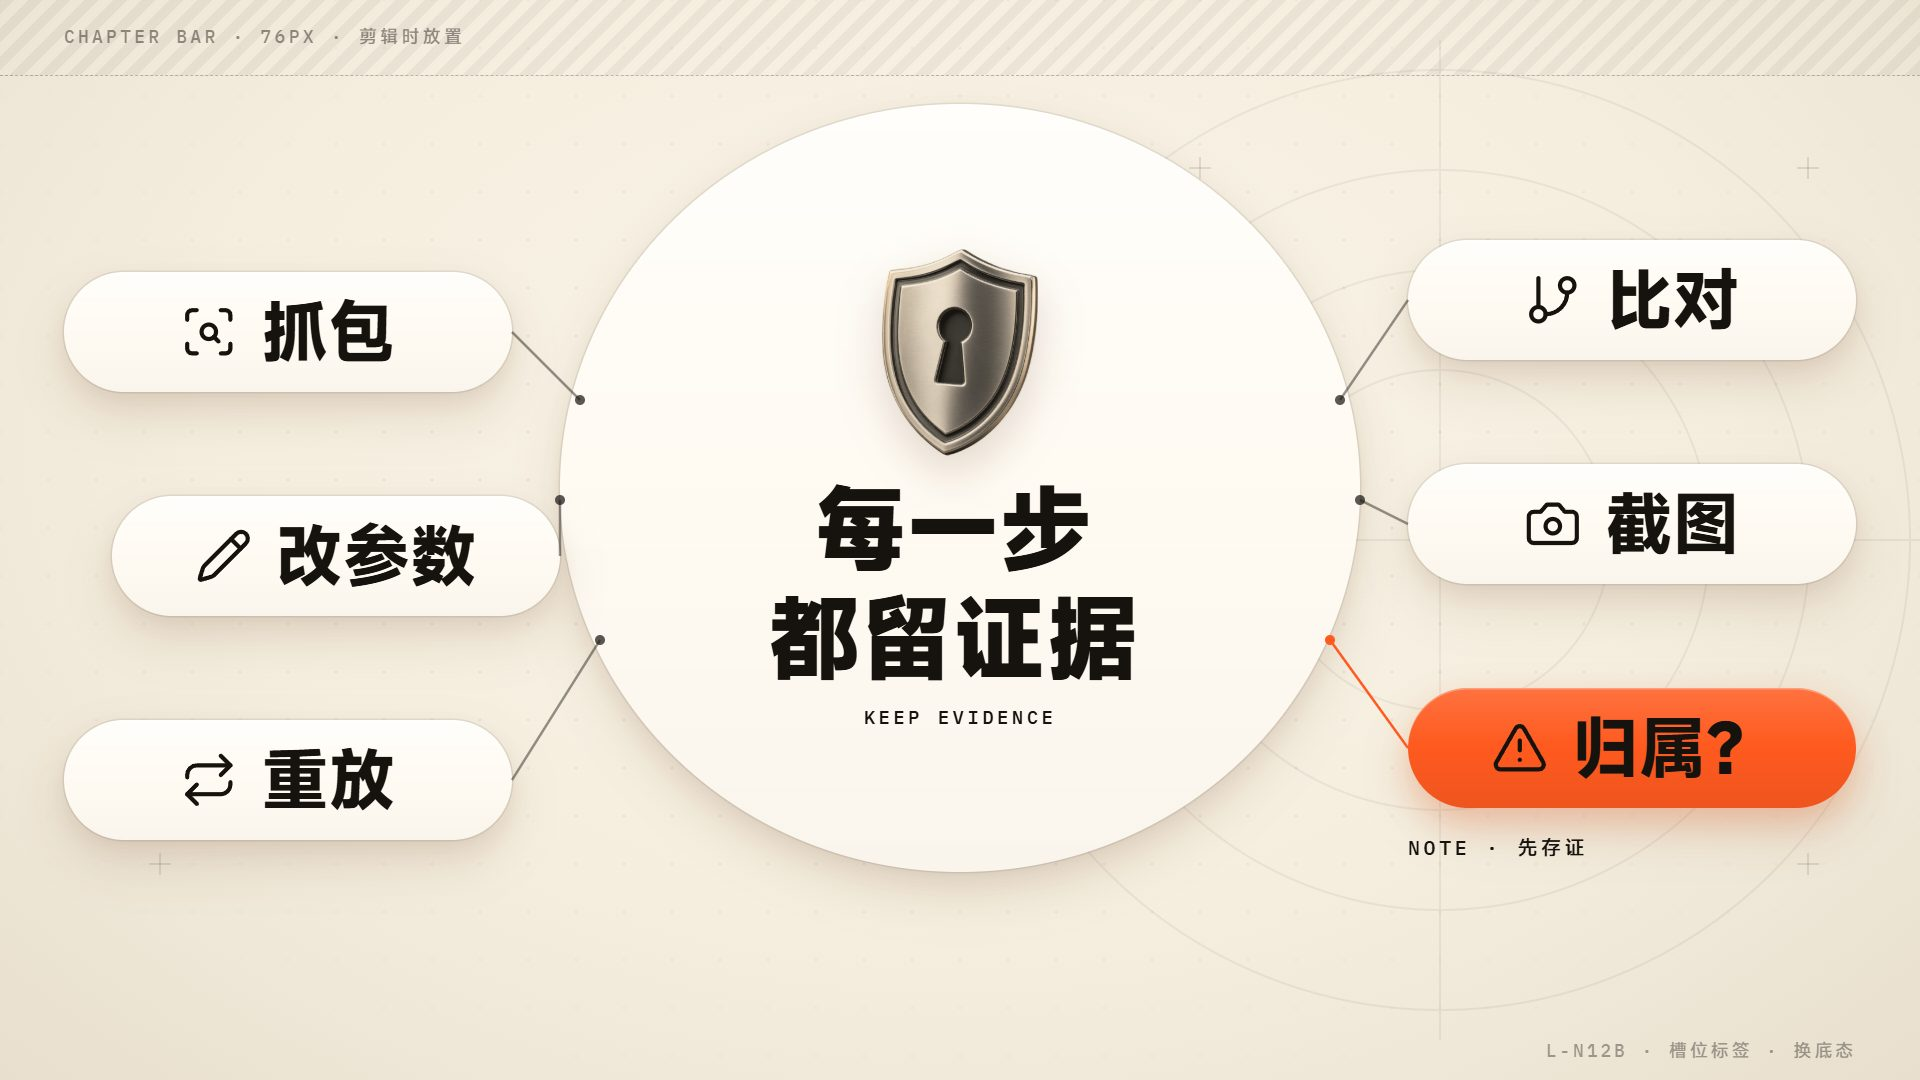
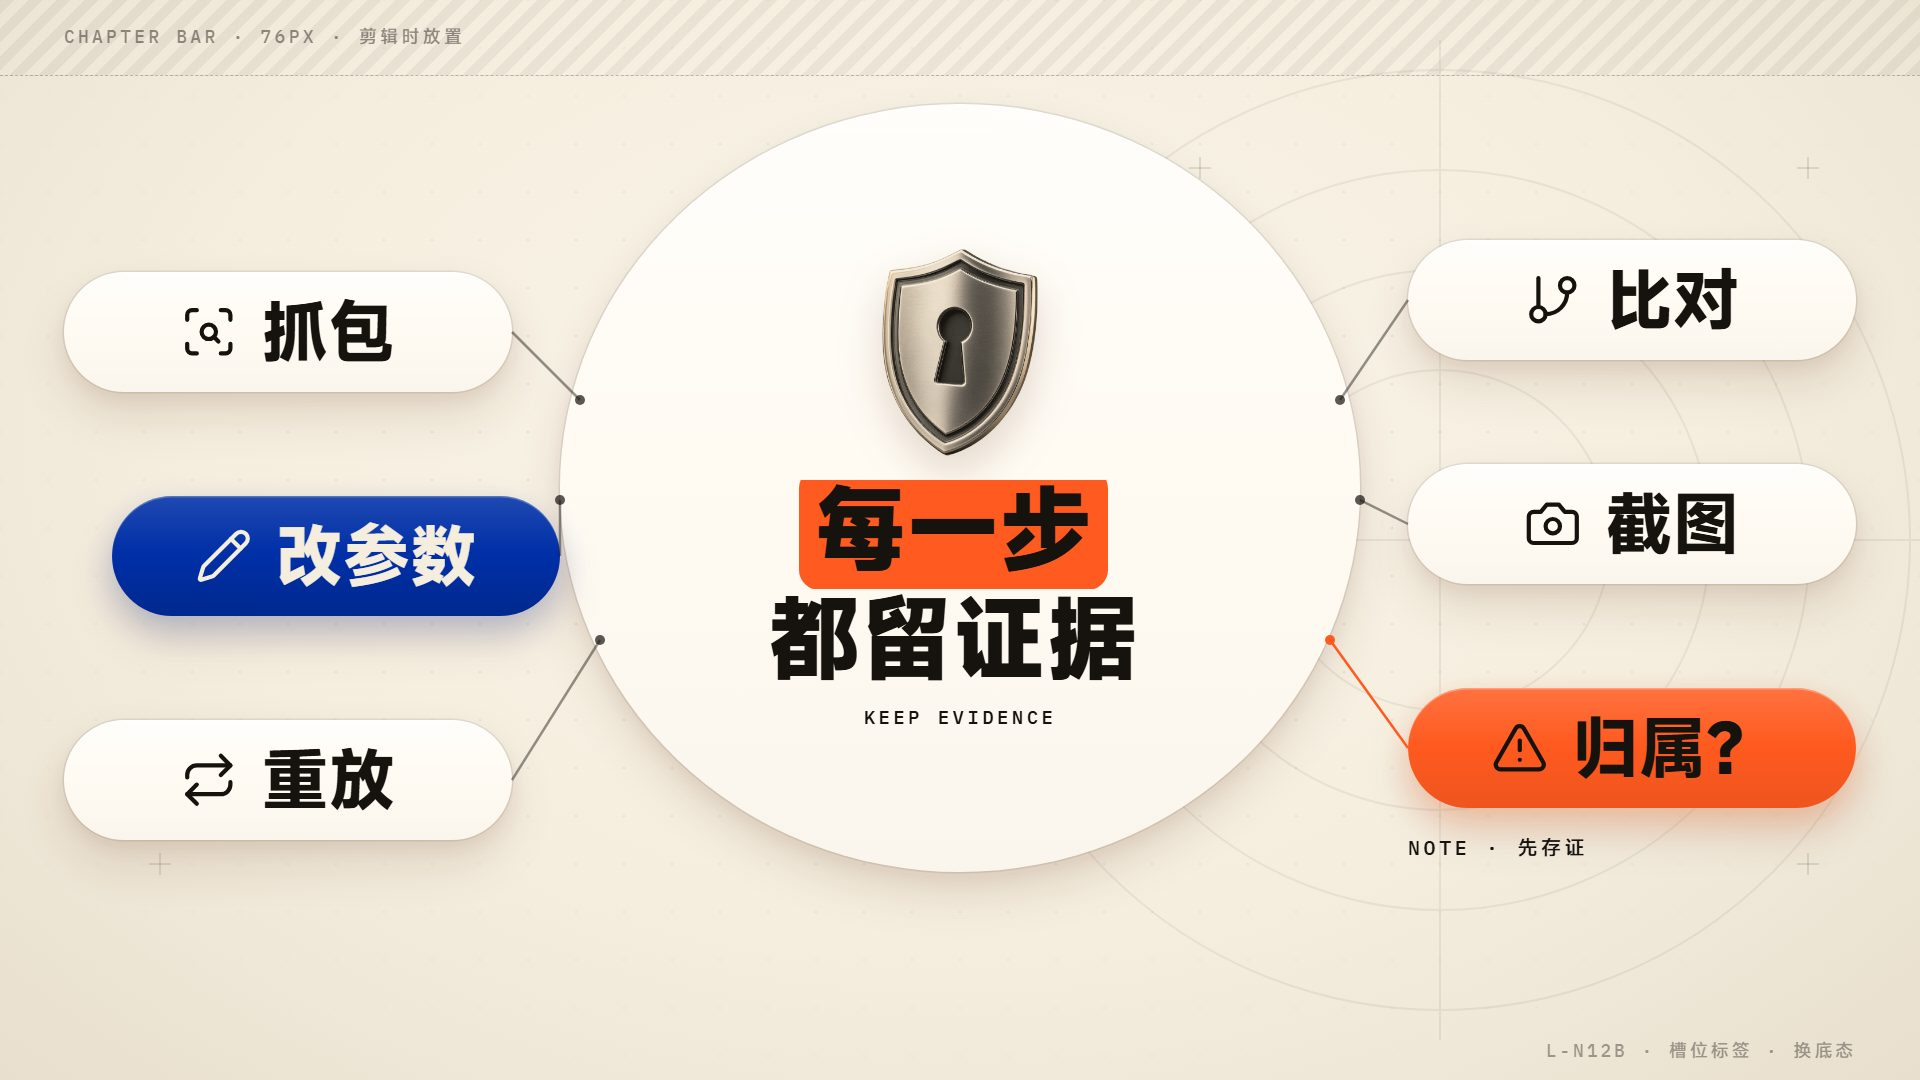
知识卡片库 1.2.0（58 条配方）：新增 R-STEP3 / R-DECL，升级 L-N15 / L-K13 / L-N12B 及渲染与 AE 工具链

Changed region(s): [[0.0312, 0.4583, 0.3125, 0.5806], [0.4062, 0.4278, 0.5938, 0.55]]

diff --git a/engine/shot.js b/engine/shot.js
@@ -11,6 +11,7 @@
  *   fill: { 槽位 id: 填充 },     // {ic, data, tone, tilt, rect} 信息卡 / 图解 · {img, cls, pos, tilt} 图片 · {t, fs, cls} 文字 · {box} 纸面底卡 · null 空着
  *   cue: { 槽位 id: 入场秒 },   // 可省：按排版槽位顺序自动错开（0.2s 起，每个 +0.12s）
  *   deco: [[x, y, 装饰小字]], lines: [[x1, y1, x2, y2, hot]], co: [{from, to, label, en, hot}], amb: [[名, x, y, w, h, near|far]], bokeh: [[x, y, r]],
+ *   ambBase: 'episodes/BM01_x/assets/gen/bm01_'（可省：氛围道具图片前缀，图片 = ambBase + 'amb_' + 名 + '.png'；默认风格样张目录，正片必须指到本期素材）,
  *   sc: { slot: 's1', spec: 录屏组件 spec, base }（可省，录屏镜头）, focus: [x, y, scale]（可省，默认取第一个贴纸主体）, sub: '字幕（<em>关键词</em>）'
  * }
  * 每个画面元素登记成一个 unit（{el, kind, id, at}），AE 导出按 unit 拆层、按 at 加入场关键帧。
@@ -53,7 +54,7 @@
     }
     (spec.amb || []).forEach(function (a, i) {
       var e = add(frame, 'img', 'amb ' + a[5], 'left:' + a[1] + 'px;top:' + a[2] + 'px;width:' + a[3] + 'px;height:' + a[4] + 'px');
-      e.src = (opts.imgBase || 'cards/images/samples/ambient/') + 'amb_' + a[0] + '.png'; reg(e, 'amb', 'amb' + (i + 1), 0, { name: a[0] });
+      e.src = (spec.ambBase || opts.imgBase || 'cards/images/samples/ambient/') + 'amb_' + a[0] + '.png'; reg(e, 'amb', 'amb' + (i + 1), 0, { name: a[0] });
     });
     if (spec.lines && spec.lines.length) {
       var sv = document.createElementNS(NS, 'svg'); sv.setAttribute('class', 'lines'); sv.setAttribute('width', 1920); sv.setAttribute('height', 1080);

diff --git a/tools/cards_preview.js b/tools/cards_preview.js
@@ -14,7 +14,7 @@ fs.mkdirSync(OUT, { recursive: true }); fs.mkdirSync(TMP, { recursive: true });
 const only = process.argv.slice(2);
 
 (async () => {
-  const b = await chromium.launch(), report = [];
+  const b = await chromium.launch(process.env.PLAYWRIGHT_EXECUTABLE_PATH ? { executablePath: process.env.PLAYWRIGHT_EXECUTABLE_PATH, args: ['--disable-gpu'] } : {}), report = [];
   const ARGS = [Object.fromEntries(Object.entries(BRAND.color).map(([k, v]) => [k, v.hex])), BRAND.contrast.forbidden, BRAND.type.meaningful_min, BRAND.type.decor_min, BRAND.contrast.text_min, BRAND.type.decor.per_card_max];
   const p = await b.newPage({ viewport: { width: 1920, height: 1080 } });
   const list = RECIPES.filter(r => !only.length || only.includes(r.id));

diff --git a/ae/export_shots.js b/ae/export_shots.js
@@ -18,7 +18,7 @@ const BGNAME = { plate: '背景板', dots: '背景动态_点阵', marks: '背景
 const FOCUS_RES = 1500;   // 焦点组件栅格化边长（scale 最大 1.5 × 画布 1000）
 
 (async () => {
-  const b = await chromium.launch(), errs = [], shots = [], bgDone = {};
+  const b = await chromium.launch(process.env.PLAYWRIGHT_EXECUTABLE_PATH ? { executablePath: process.env.PLAYWRIGHT_EXECUTABLE_PATH } : {}), errs = [], shots = [], bgDone = {};
   let start = 0;
   for (const [si, s0] of EP.shots.entries()) {
     const spec = Object.assign({}, s0), name = (EP.prefix || EP.id) + '_' + (spec.id || 'S' + String(si + 1).padStart(2, '0'));

diff --git a/ae/build_ae.py b/ae/build_ae.py
@@ -11,6 +11,9 @@ episode.json：{id, title, prefix, voice?, sfx?: [{name, file, t}], shots: [{id,
 """
 import json, os, re, shutil, subprocess, sys, zipfile
 from PIL import Image
+if hasattr(sys.stdout, 'reconfigure'):
+    sys.stdout.reconfigure(encoding='utf-8', errors='replace')
+    sys.stderr.reconfigure(encoding='utf-8', errors='replace')
 
 ROOT = os.path.dirname(os.path.dirname(os.path.abspath(__file__)))
 arg = os.path.abspath(sys.argv[1])
@@ -25,7 +28,7 @@ OPA_FX = {'rise', 'drop', 'unfold'}
 errs, warns = [], []
 
 def run(cmd, **kw):
-    r = subprocess.run(cmd, cwd=ROOT, text=True, capture_output=True, **kw)
+    r = subprocess.run(cmd, cwd=ROOT, text=True, encoding='utf-8', errors='replace', capture_output=True, **kw)
     if r.returncode: print(r.stdout[-3000:], r.stderr[-3000:]); sys.exit('✗ 失败：' + ' '.join(cmd[:3]))
     return r.stdout
 
@@ -142,7 +145,7 @@ readme = (tpl.replace('{TITLE}', X['title']).replace('{MAIN}', SPEC['mainName'])
 open(os.path.join(PKG, 'README.txt'), 'w', encoding='utf-8').write(readme)
 
 # 6) 模拟 AE 测试（用户 AE 24.6.2 的真实属性树）
-r = subprocess.run(['node', os.path.join(ROOT, 'ae', 'mock_ae_test.js'), os.path.join(PKG, jsx_name), os.path.join(ROOT, 'ae', 'probe', 'AE_probe_24.6.2.txt')], capture_output=True, text=True, cwd=ROOT)
+r = subprocess.run(['node', os.path.join(ROOT, 'ae', 'mock_ae_test.js'), os.path.join(PKG, jsx_name), os.path.join(ROOT, 'ae', 'probe', 'AE_probe_24.6.2.txt')], capture_output=True, text=True, encoding='utf-8', errors='replace', cwd=ROOT)
 open(os.path.join(PKG, '模拟测试报告.txt'), 'w', encoding='utf-8').write(r.stdout + r.stderr)
 print(r.stdout[-2500:] + r.stderr[-1500:])
 

diff --git a/cards/recipes/recipes.md b/cards/recipes/recipes.md
@@ -1,6 +1,6 @@
 # 镜头配方表
 
-> 由 `recipes.json`（v1.1，2026-11-28）生成，不要手改：`python3 tools/recipes_md.py`。
+> 由 `recipes.json`（v1.2.0，2026-11-28）生成，不要手改：`python3 tools/recipes_md.py`。
 >
 > 镜头配方表（P6）：一张知识卡片 = 排版 + 信息卡 / 图解 + 图片 + 动效。每条配方写明用来讲什么、场景、焦点、图片类别、用到的组件、动效节奏和一个示例镜头（example，可直接交给 engine/shot.js / tools/cards_preview.js / ae/build_ae.py）。示例内容是示意，图片是风格样张（不进正片）。
 
@@ -20,7 +20,7 @@
 | `L-K10` | 对比双芯片 | 二选一对比 | A | c2 | 1 实物贴纸、3 氛围装饰 | chip | [看图](../../docs/previews/cards/L-K10.jpg) |
 | `L-K11` | 侧向跟读大字 | 一句话分左右两半说完 | A | {{ }} 重点字 | 2 意象插画、3 氛围装饰 | — | [看图](../../docs/previews/cards/L-K11.jpg) |
 | `L-K12` | 引语短标签 | 复述一句原话（2–4 条） | A | — | 2 意象插画、3 氛围装饰 | tag | [看图](../../docs/previews/cards/L-K12.jpg) |
-| `L-K13` | 反转大字 | 反差：你以为 A，其实是 B | A | — | 3 氛围装饰 | — | [看图](../../docs/previews/cards/L-K13.jpg) |
+| `L-K13` | 反转大字 | 反差：你以为 A，其实是 B | A | lines 橙分割线 | 3 氛围装饰 | — | [看图](../../docs/previews/cards/L-K13.jpg) |
 | `L-K14` | 暗底三连字 | 递进三步 | A | {{ }} 重点字 | 证据截图 | — | [看图](../../docs/previews/cards/L-K14.jpg) |
 | `L-K21` | 侧板关系链 | 谁 → 做了什么 → 结果（主体不离开画面） | A | — | 1 实物贴纸、3 氛围装饰 | list | [看图](../../docs/previews/cards/L-K21.jpg) |
 | `L-K22` | 前后对照板 | 修复前 / 后、改动前 / 后（同一个输入） | B | [[ ]] 色块 | — | term、title | [看图](../../docs/previews/cards/L-K22.jpg) |
@@ -44,10 +44,10 @@
 | `L-N10` | 英雄物件 | 门槛、配置、一个关键物件 | A | — | 1 实物贴纸、3 氛围装饰 | tag、title | [看图](../../docs/previews/cards/L-N10.jpg) |
 | `L-N11` | 同侧叠牌 | 先给对象，下一拍再给判断 | A | c2 | 1 实物贴纸、3 氛围装饰 | keyword、tag、verdict | [看图](../../docs/previews/cards/L-N11.jpg) |
 | `L-N12A` | 槽位标签 · 口播态 | 先在主体周围固定几个标签，再切全屏讲 | A | l6 | 1 实物贴纸、3 氛围装饰 | tag | [看图](../../docs/previews/cards/L-N12A.jpg) |
-| `L-N12B` | 槽位标签 · 换底态 | 标签原位不动，换底后中心展开 | B | l6 | 1 实物贴纸 | tag、verdict | [看图](../../docs/previews/cards/L-N12B.jpg) |
+| `L-N12B` | 槽位标签 · 换底态 | 标签原位不动，换底后中心展开 | B | l5、[[ ]] 色块 | 1 实物贴纸 | tag、verdict | [看图](../../docs/previews/cards/L-N12B.jpg) |
 | `L-N13` | 提问条 + 维度 | 一个问题拆成几个维度（3–6 个） | A | {{ }} 重点字 | 2 意象插画 | tag | [看图](../../docs/previews/cards/L-N13.jpg) |
 | `L-N14` | 让半屏证据板 | 边看主体边看证据（复盘） | A | c2 | 2 意象插画 | keyword、title | [看图](../../docs/previews/cards/L-N14.jpg) |
-| `L-N15` | 问号章节 | 第 N 步章节开场（几章共用一个容器） | A | — | 1 实物贴纸、3 氛围装饰 | title | [看图](../../docs/previews/cards/L-N15.jpg) |
+| `L-N15` | 问号章节 | 第 N 步章节开场（几章共用一个容器） | A | {{ }} 重点字、bar 橙短线 | 1 实物贴纸、3 氛围装饰 | tag、title | [看图](../../docs/previews/cards/L-N15.jpg) |
 | `L-N16` | 主句 + 四角 | 一句结论 + 旁人的反应 | A | {{ }} 重点字 | 证据截图 | tag | [看图](../../docs/previews/cards/L-N16.jpg) |
 | `L-N17` | 主干 → 分支 | 先讲主线，再展开出事的分支 | B | l3 | — | keyword、step、tag、title | [看图](../../docs/previews/cards/L-N17.jpg) |
 | `L-N18` | 来源 → 分类 → 聚焦 | 引用标准 / 公告，并在分类里定位本期 | A | c2 | 1 实物贴纸 | tag、title | [看图](../../docs/previews/cards/L-N18.jpg) |
@@ -64,6 +64,8 @@
 | `R-JD` | 岗位 JD 拆解 | 网安就业：一份 JD 拆成几条硬要求，标出最关键的一条 | A | [[ ]] 色块 | 2 意象插画、3 氛围装饰 | jd、tag、title | [看图](../../docs/previews/cards/R-JD.jpg) |
 | `R-TOOLS` | 工具对比 | AI 工具 / 安全工具横评：两样东西各适合干什么 | A | c2 | 1 实物贴纸、3 氛围装饰 | chip | [看图](../../docs/previews/cards/R-TOOLS.jpg) |
 | `R-INTERVIEW` | 面试题 | 就业：一道高频面试题 + 一句答题要点 | A | {{ }} 重点字 | 2 意象插画、3 氛围装饰 | quote、title | [看图](../../docs/previews/cards/R-INTERVIEW.jpg) |
+| `R-STEP3` | 三步大卡片流转（配贴纸） | 三步总览 / 复盘：大号步骤卡必须内嵌实物贴纸，避免大卡片只有小图标显空 | A | l3、lines 橙线 | 1 实物贴纸 | step | [看图](../../docs/previews/cards/R-STEP3.jpg) |
+| `R-DECL` | 权威声明横幅 + 引用卡 | 合规声明、底线强调（无原文截图时用克莱因蓝横幅卡填满上半屏） | B | [[ ]] 色块 | 1 实物贴纸 | keyword、quote | [看图](../../docs/previews/cards/R-DECL.jpg) |
 
 ## 动效节奏
 
@@ -123,6 +125,8 @@
 - **`R-JD` 岗位 JD 拆解**：标题逐行 maskUp → 卡片 / 图解按槽位顺序 rise（错开 0.12s） → 贴纸 drop（落定回弹 2%） → 文字 rise → 焦点（朱橙）在强调拍 blockSweep；类别 3 和背景动态常驻
 - **`R-TOOLS` 工具对比**：卡片 / 图解按槽位顺序 rise（错开 0.12s） → 贴纸 drop（落定回弹 2%） → 文字 rise → 焦点（朱橙）在强调拍 blockSweep；类别 3 和背景动态常驻
 - **`R-INTERVIEW` 面试题**：标题逐行 maskUp → 卡片 / 图解按槽位顺序 rise（错开 0.12s） → 贴纸 drop（落定回弹 2%） → 焦点（朱橙）在强调拍 blockSweep；类别 3 和背景动态常驻
+- **`R-STEP3` 三步大卡片流转（配贴纸）**：三张大步骤卡依次 rise（错开 0.15s）→ 右上贴纸 drop → 串联引线画出 → 末卡 hot 朱橙焦点
+- **`R-DECL` 权威声明横幅 + 引用卡**：顶部克莱因蓝横幅 rise → 下方引用卡 rise → 重点色块 blockSweep → 贴纸 drop
 
 ## 怎么用
 
